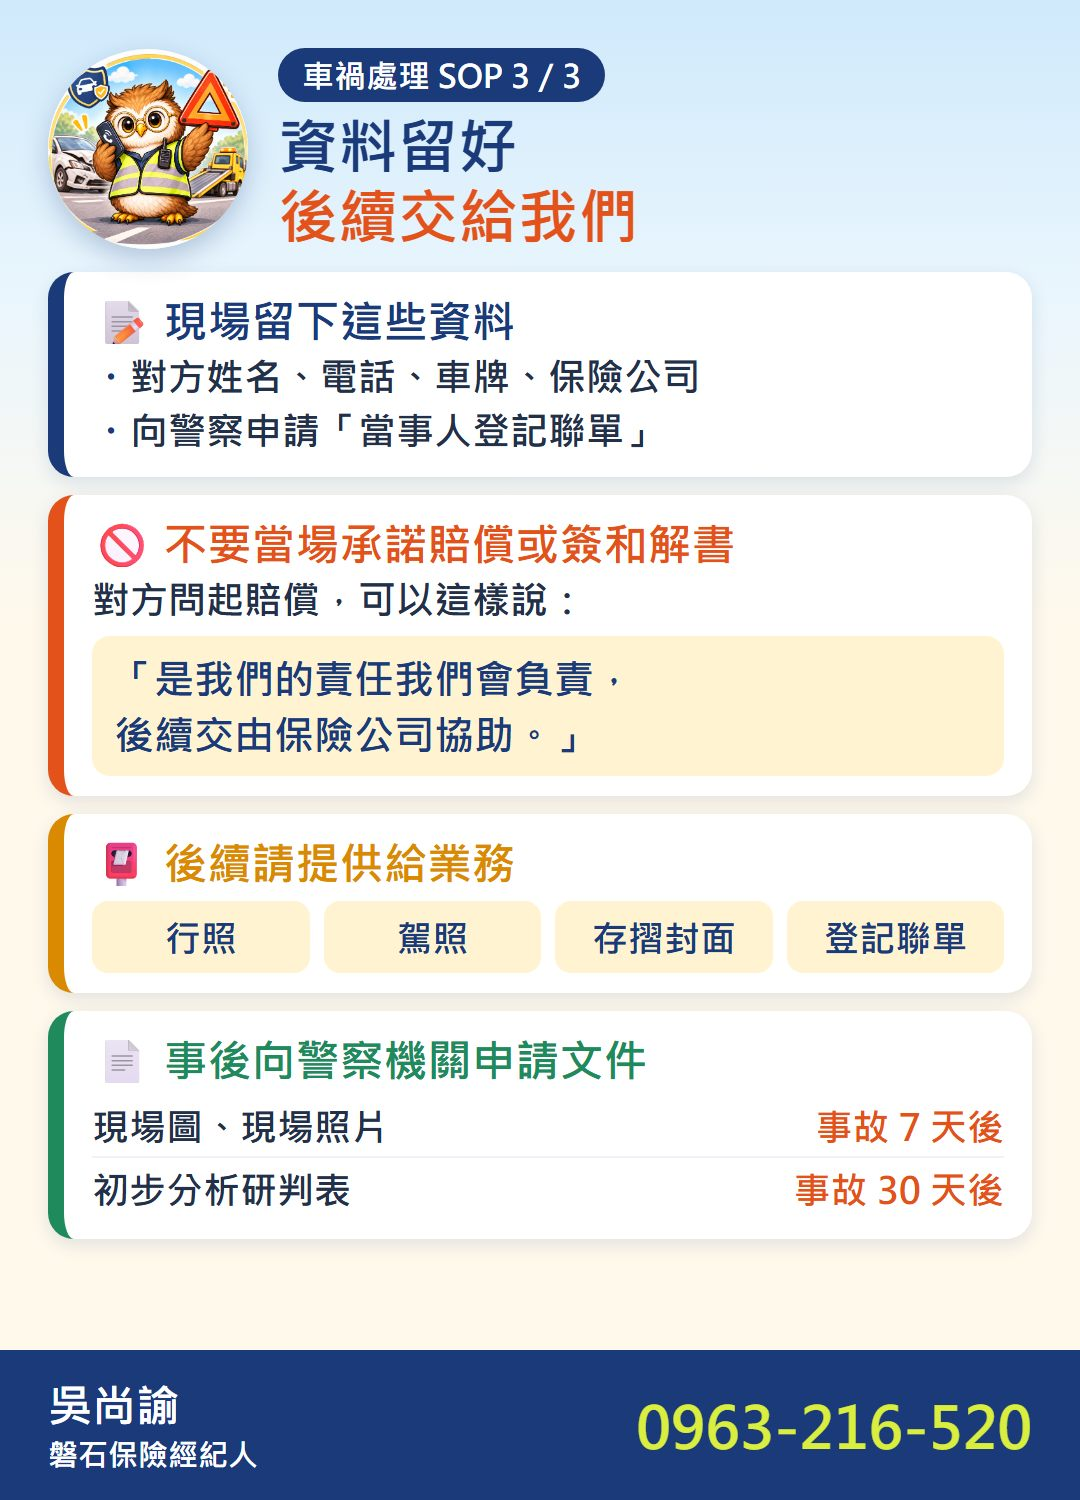
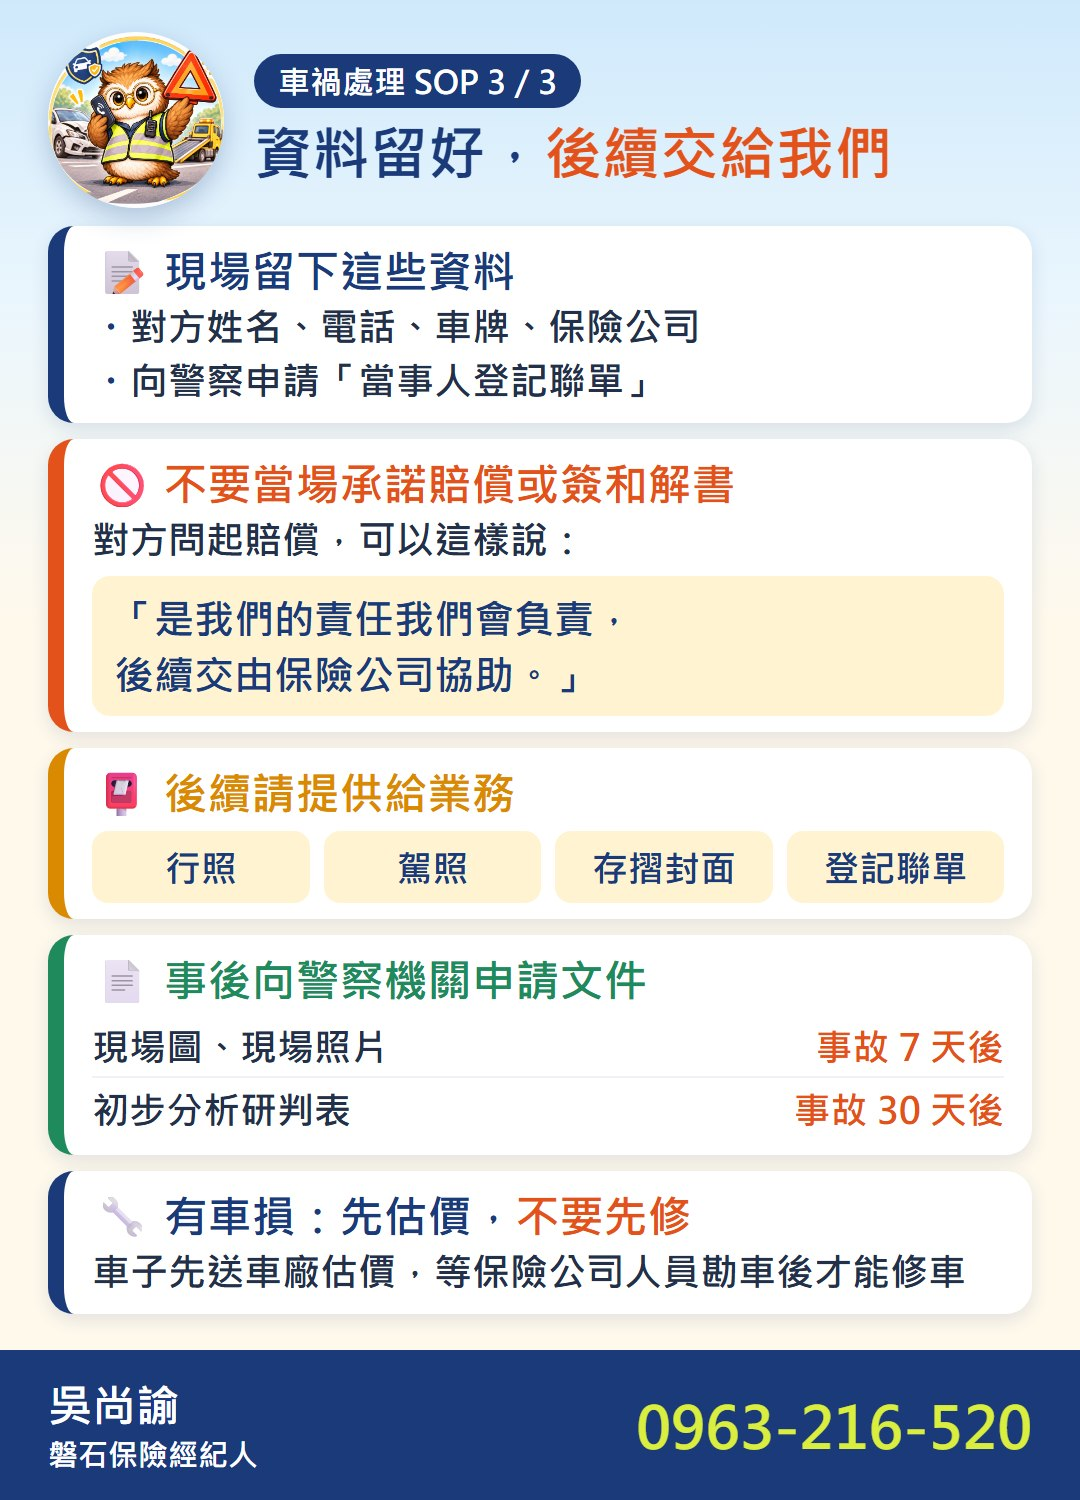
車禍SOP第3張改版：新增車損先估價提醒，標題改一行

diff --git a/index.html b/index.html
@@ -37,7 +37,8 @@ const AGENTS = {
 // 三張圖卡組成一則可左右滑動的訊息；點圖放大
 function buildMessage(agentKey, baseUrl) {
   const bubbles = [1, 2, 3].map(n => {
-    const url = `${baseUrl}cards/${agentKey}${n}.jpg`;
+    // ?v= 讓 LINE 抓新圖，圖卡改版時更新這個日期
+    const url = `${baseUrl}cards/${agentKey}${n}.jpg?v=20261118`;
     return {
       type: "bubble",
       size: "giga",
